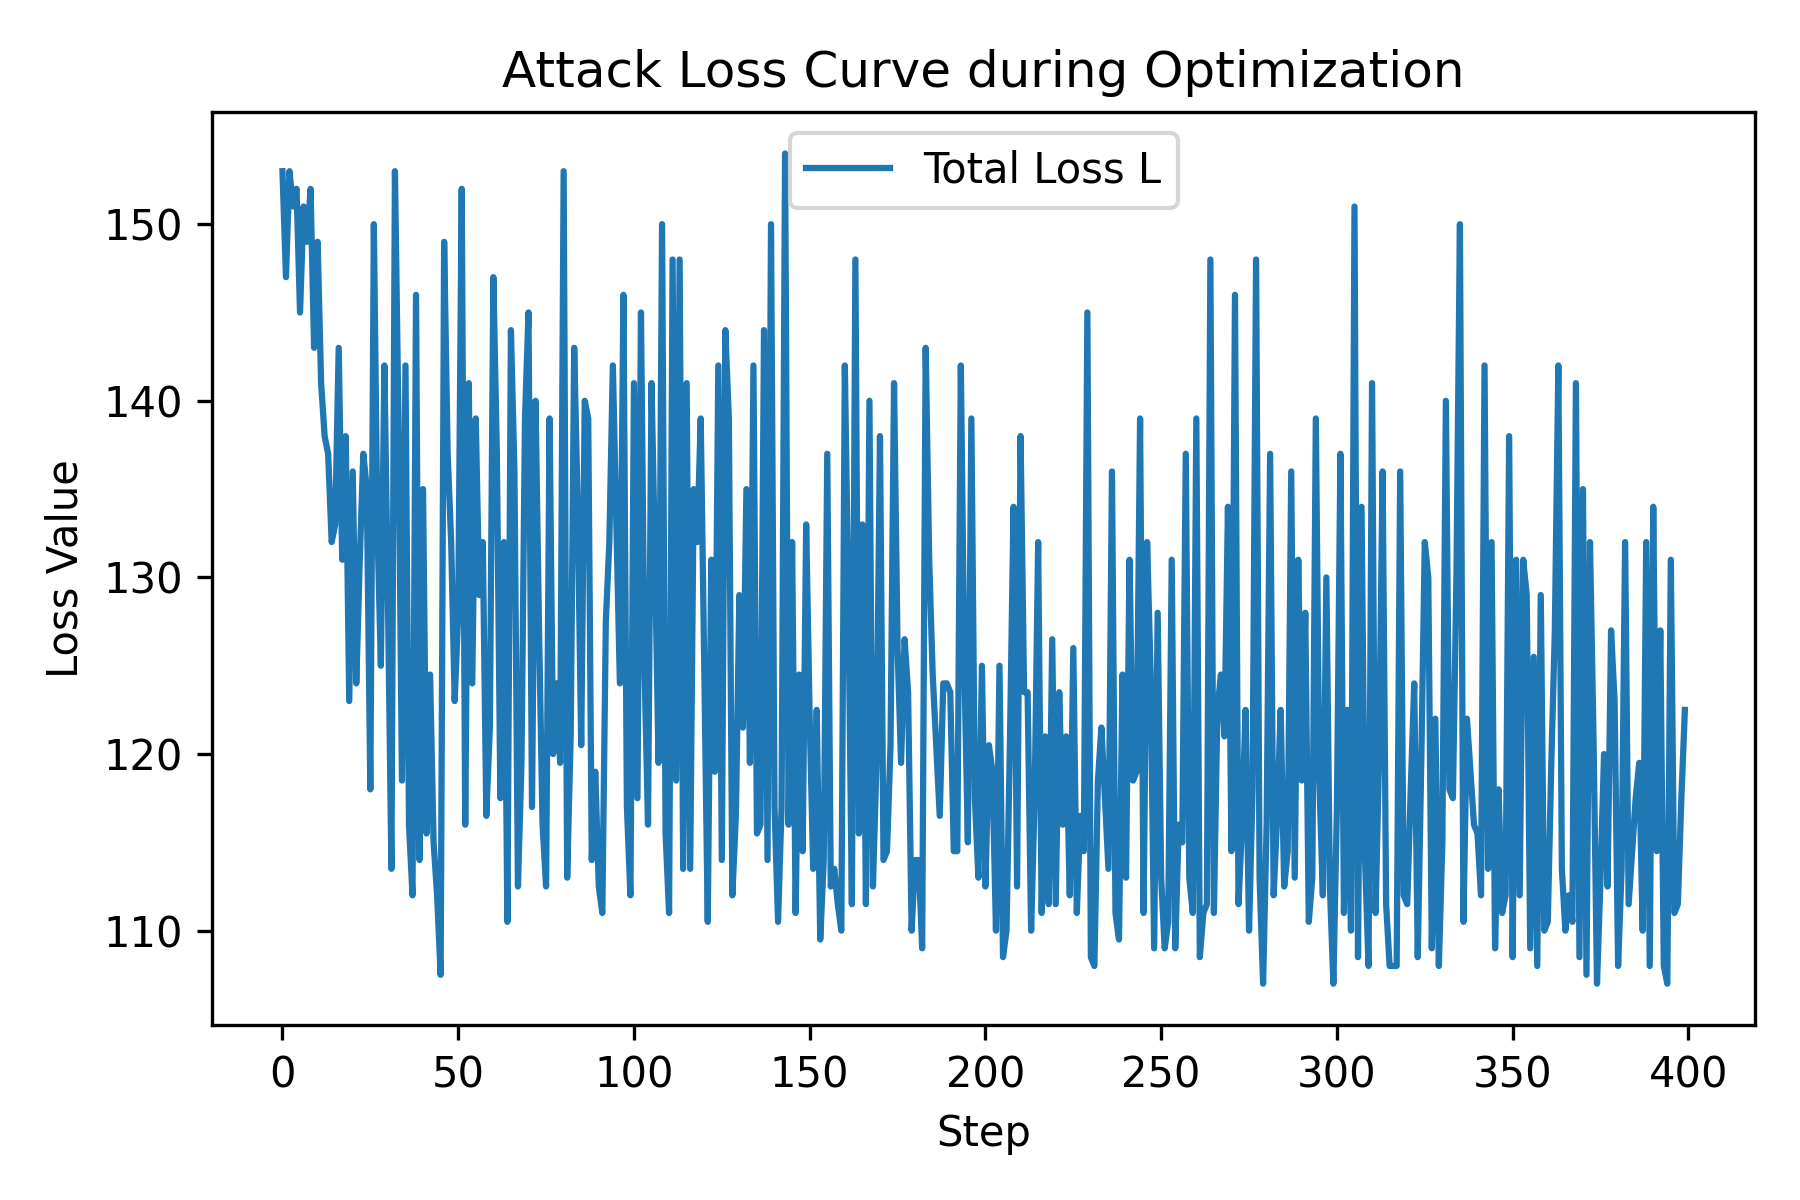
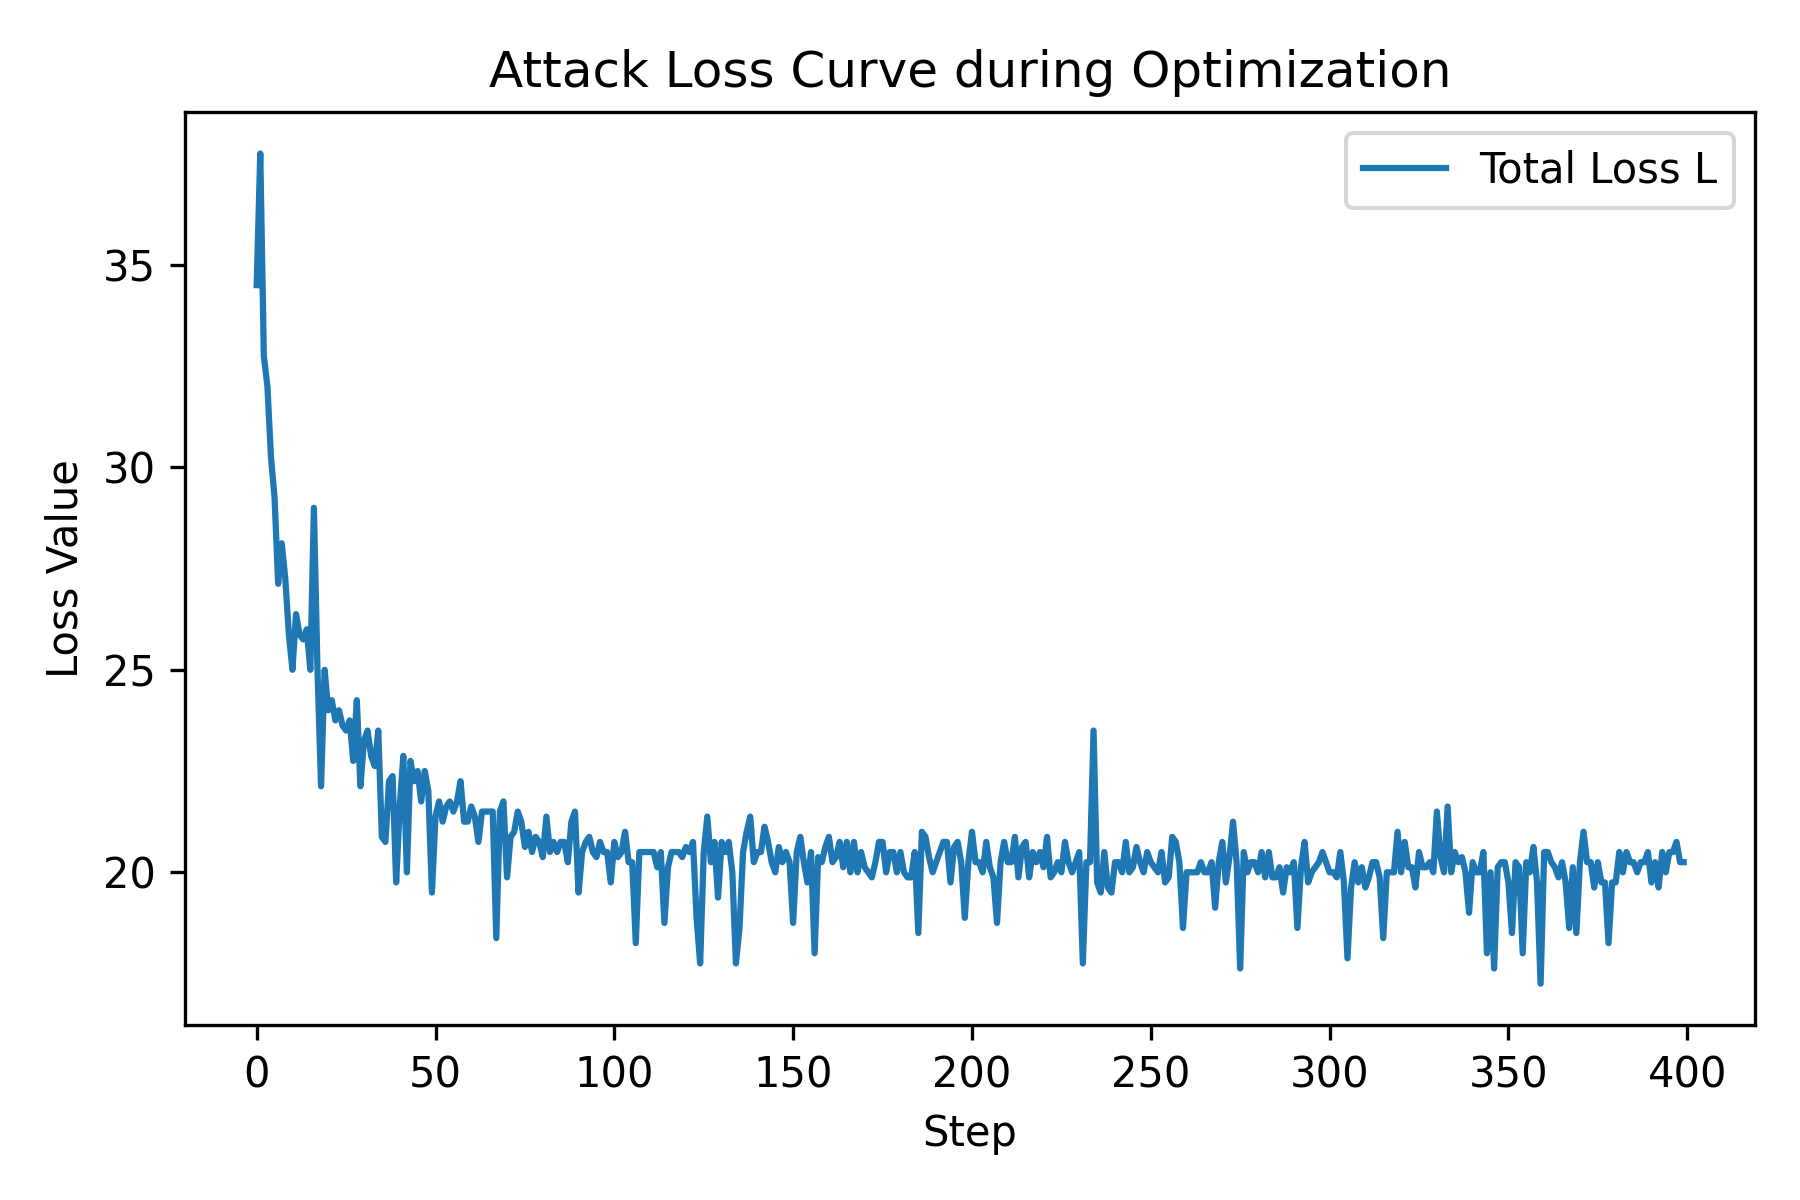
finish attack implementation

diff --git a/run_attack/Wan2.1-I2V-attack.py b/run_attack/Wan2.1-I2V-attack.py
@@ -7,6 +7,7 @@ from diffsynth.pipelines.wan_video import WanVideoPipeline, prompt_clip_attn_los
 from diffsynth.utils import setup_pipe_modules, plot_loss_curve, save_adv_result
 from PIL import Image
 from tqdm import tqdm
+import torch.nn.functional as F
 import random
 import yaml
 import os
@@ -75,7 +76,15 @@ def run_attack(pipe, image, h, w, num_frames, prompt_emb_src, prompt_emb_tgt, im
         pipe.load_models_to_device(["vae", "image_encoder"])
         image_emb_adv = pipe.encode_image(I_adv, num_frames=num_frames, height=h, width=w, **tiler_kwargs)
 
-        L_enc_1 = torch.nn.functional.mse_loss(image_emb_adv["y"][:, 4:, :], image_emb_tgt["y"][:, 4:, :])
+        # MSE Loss
+        # enc_loss = torch.nn.functional.mse_loss(image_emb_adv["y"][:, 4:, :], image_emb_tgt["y"][:, 4:, :])
+
+        # Cosine Loss
+        z_adv = image_emb_adv["y"][:, 4:, :, :, :] 
+        z_tgt = image_emb_tgt["y"][:, 4:, :, :, :]
+        z_adv_v = z_adv.permute(0, 2, 3, 4, 1)     
+        z_tgt_v = z_tgt.permute(0, 2, 3, 4, 1)
+        enc_loss = 1 - F.cosine_similarity(z_adv_v, z_tgt_v, dim=-1).mean()
 
         pipe.scheduler.set_timesteps(num_inference_steps=25, denoising_strength=1.0, shift=5.0)
         idx = random.randrange(len(pipe.scheduler.timesteps))
@@ -94,14 +103,15 @@ def run_attack(pipe, image, h, w, num_frames, prompt_emb_src, prompt_emb_tgt, im
 
         pipe.load_models_to_device(["dit"])
 
+
         noise_pred = prompt_clip_attn_loss(pipe.dit, adv_latents, timestep=timestep, **prompt_emb_src, **image_emb_adv, **extra_input, info=None)
-        
-        noise_pred_tar = prompt_clip_attn_loss(pipe.dit, adv_latents, timestep=timestep, **prompt_emb_tgt, **image_emb_src, **extra_input, info=None)               
+        noise_pred_tar = prompt_clip_attn_loss(pipe.dit, adv_latents, timestep=timestep, **prompt_emb_tgt, **image_emb_src, **extra_input, info=None)  
+        attn_loss = torch.norm(noise_pred - noise_pred_tar, dim=-1).mean()             
 
         # attn_loss = prompt_clip_attn_loss(pipe.dit, adv_latents, timestep=timestep, **prompt_emb, **image_emb_adv, **extra_input, info=info)
 
         # scale the loss if needed
-        L = torch.norm(noise_pred - 5 * noise_pred_tar, dim=-1).mean() + L_enc_1 * 10
+        L = 1 * attn_loss + 100 * enc_loss
 
         pbar.set_postfix(loss=f"{L.item():.4f}", t=timestep.item())
 

diff --git a/run_attack/Wan2.1-I2V-test.py b/run_attack/Wan2.1-I2V-test.py
@@ -39,19 +39,16 @@ h = 480
 w = 832
 
 image = Image.open("I_adv_final_hike.jpg")
-# image = Image.open("data/image/swan.jpg")
+# image = Image.open("data/image/ship.jpg")
 image = image.resize((w, h))
-
 
 # pipe.enable_vram_management(num_persistent_param_in_dit=6*10**9) # You can set `num_persistent_param_in_dit` to a small number to reduce VRAM required.
 pipe = setup_pipe_modules(pipe)
 
 video = pipe(
-    prompt="swan swimming in the river",
+    prompt="A rhino is walking in the zoo",
     input_image=image,
     num_inference_steps=25, height=h, width=w,
-    seed=0, tiled=True, num_frames=21, target_image=None, cfg_scale=1,
+    seed=0, tiled=False, num_frames=9, cfg_scale=5,
 )
 save_video(video, "clean_attacked.mp4", fps=15, quality=5)
-
-
